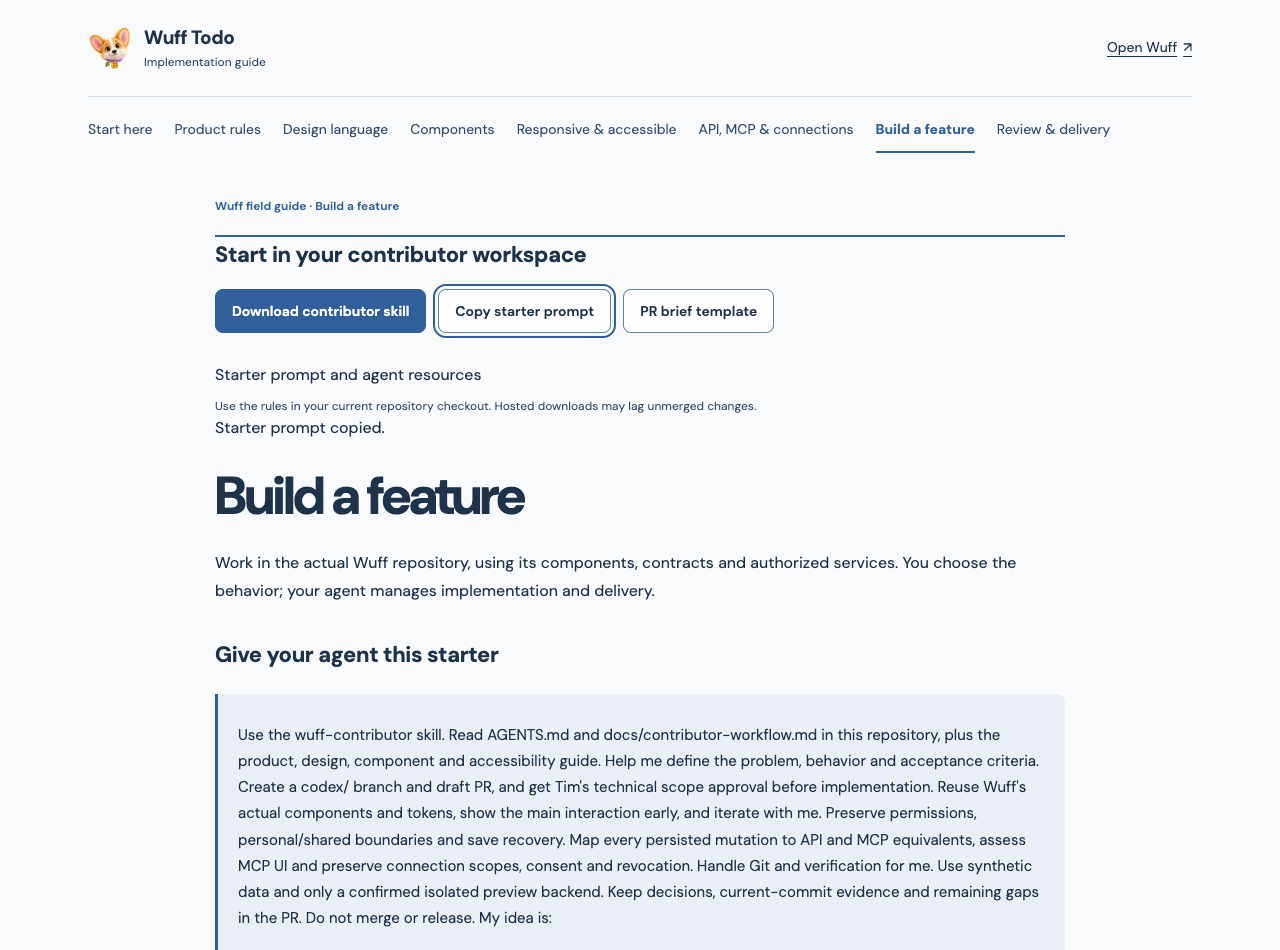
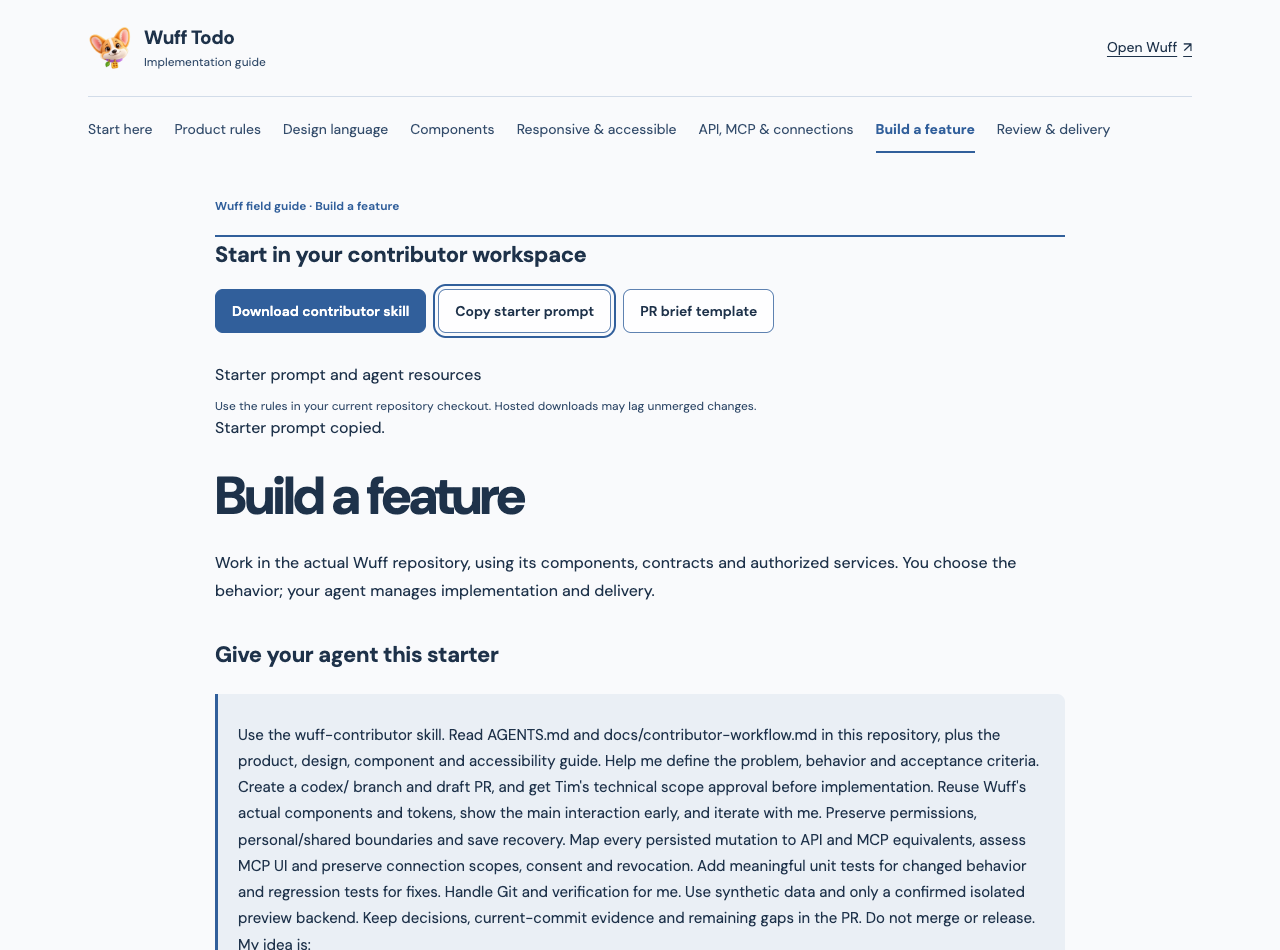
Require behavior unit coverage and discover tests automatically

Changed region(s): [[0.1875, 0.8853, 0.8125, 1.0]]

diff --git a/apps/web/src/app/docs/resources.tsx b/apps/web/src/app/docs/resources.tsx
@@ -1,7 +1,7 @@
 "use client";
 import { useState } from "react";
 const starter =
-  "Use the wuff-contributor skill. Read AGENTS.md and docs/contributor-workflow.md in this repository, plus the product, design, component and accessibility guide. Help me define a feature brief and acceptance criteria, create a codex/ branch and draft PR, and request Tim's scope approval before implementation. Reuse Wuff's actual components and tokens, show the main interaction early and iterate with me. Handle Git and verification for me. Preserve permissions, personal/shared boundaries and save recovery. Map every persisted mutation to API and MCP equivalents, assess MCP UI, and preserve connection scopes, consent and revocation. Use synthetic data and only a confirmed isolated preview backend. Keep decisions, current-commit evidence and remaining gaps in the PR. Do not merge or release. My idea is:";
+  "Use the wuff-contributor skill. Read AGENTS.md and docs/contributor-workflow.md in this repository, plus the product, design, component and accessibility guide. Help me define a feature brief and acceptance criteria, create a codex/ branch and draft PR, and request Tim's scope approval before implementation. Reuse Wuff's actual components and tokens, show the main interaction early and iterate with me. Handle Git and verification for me. Add meaningful unit tests for changed behavior and regression tests for fixes. Preserve permissions, personal/shared boundaries and save recovery. Map every persisted mutation to API and MCP equivalents, assess MCP UI, and preserve connection scopes, consent and revocation. Use synthetic data and only a confirmed isolated preview backend. Keep decisions, current-commit evidence and remaining gaps in the PR. Do not merge or release. My idea is:";
 export function GuideResources() {
   const [status, setStatus] = useState("");
   return (

diff --git a/AGENTS.md b/AGENTS.md
@@ -2,7 +2,7 @@
 
 Start with `docs/implementation-plan.md` for current status and the next planned milestone, then read `docs/product-spec.md` and `docs/architecture.md` before changing behavior. Read `docs/development.md` before running environment, database, or deployment commands, and `docs/verification.md` before making verification claims. Preserve confirmed decisions; record technical decisions and verification evidence in `docs/`.
 
-- First release: invite-only, private/shared basic lists, tasks, ordering, web and MCP/MCP Apps. Mobile and list themes follow later.
+- Follow the current milestone in `docs/implementation-plan.md`; preserve invite-only access and private/shared list boundaries across web, API, MCP and native clients.
 - Only owners rename/delete lists. Every API and MCP operation enforces access in shared server-side domain services.
 - Every persisted-data feature must ship equivalent authorized HTTP API and MCP
   capabilities through shared domain services. Assess MCP App UI and connection/
@@ -15,6 +15,25 @@ Start with `docs/implementation-plan.md` for current status and the next planned
 - Test permissions, idempotency, concurrent updates, and OAuth flows with synthetic data. Distinguish builds from live integration proof.
 - Keep the UI concise, accessible, and consistent. Do not add scheduling or other deferred features without a request.
 
+## Testing and completion requirements
+
+- Every new or changed behavior needs meaningful unit coverage, including relevant
+  success, boundary and failure cases. Bug fixes need a regression test that fails
+  without the fix. Test public outcomes; do not mirror implementation or add tests
+  merely to assert static copy, CSS classes or code text.
+- Put JS/TS unit tests under `tests/` as `*.test.ts`, `*.test.mjs` or the supported
+  equivalent. `pnpm test` discovers them automatically and excludes integration
+  suites. Run platform-language tests locally when changing native/Python behavior.
+- Before completion run `pnpm typecheck`, `pnpm test` and relevant integration/UI
+  checks. Unit tests do not replace actual API/MCP parity, connection recovery or
+  browser evidence. Use synthetic data; never run integration writes on production.
+- List test files, cases and actual command/results in the PR's `Unit tests`
+  declaration. Do not weaken/remove tests, skip cases or change test/CI settings to
+  get green checks. Docs/style-only work may explain why no behavior test applies;
+  data-changing features cannot waive unit coverage.
+- A blocked/unrun check is incomplete verification. Keep the PR a draft, record
+  the blocker and never claim completion merely because code compiles.
+
 ## Contributor delivery
 
 - `/docs` is the implementation guide, backed by `docs/guide/`. Keep its product,
@@ -24,6 +43,9 @@ Start with `docs/implementation-plan.md` for current status and the next planned
   `wuff-contributor` skill for real feature work. Before implementation, record a
   brief/acceptance criteria in a draft PR and obtain Tim's technical scope approval.
   Confirm environment readiness before preview or integration writes.
+- At the start of a feature, identify the active root/nearby instructions, approved
+  scope, unit-test plan and API/MCP/connection impacts in the brief. Do not assume
+  this host has loaded a skill or that an earlier session used current rules.
 - Implement features on a `codex/` branch and open a draft PR early. Commit and push
   to that branch; do not push directly to `main`. Keep the PR current with scope,
   preview, actual verification evidence and remaining technical work.

diff --git a/docs/verification.md b/docs/verification.md
@@ -2,6 +2,36 @@
 
 Updated: October 24, 2026. Older sections retain their milestone-specific evidence and test counts.
 
+## Contributor unit tests and instruction clarity — October 24, 2026
+
+Root AGENTS.md now explicitly requires meaningful unit coverage for every changed
+behavior, regression tests for fixes, boundary/failure cases and actual completion
+evidence. Docs/style-only exceptions must explain why no behavior changes;
+data-changing features cannot waive coverage. The skill, PR template and hosted
+workflow carry the same requirements. Obsolete first-release timing was replaced
+with a pointer to the current milestone. Root instructions remain under 5 KiB.
+
+`pnpm test` now discovers JS/TS unit files recursively instead of maintaining a
+manual file list. Integration suites, helpers, hidden directories and dependencies
+are excluded. Python/native tests remain local language-specific gates. The PR
+policy requires test declarations, actual added/updated unit files and results;
+deleted or integration-only files cannot substitute. Instruction override files
+are explicitly sensitive and need maintainer approval.
+
+`pnpm check` passed TypeScript, all 119 tests and optimized guide/MCP/web builds.
+New policy cases verify unit-file evidence, non-waivable data changes and invalid
+exceptions; discovery coverage verifies new nested files and exclusion of live
+integration suites. A temporary, unregistered failing unit case was discovered by
+the real runner and made `pnpm test` exit nonzero; the fixture was removed. The
+targeted eight-page guide browser check passed at 320/390/1280px without overflow,
+page errors or app API calls. Clipboard remains an in-memory test stub.
+
+Instruction discovery guidance was checked against official OpenAI documentation.
+Loading instructions is not proof of compliance: client/workspace overrides,
+permissions, required checks and human review remain distinct. No actual new-agent
+compliance run or live GitHub protection/rejection proof is claimed. Existing
+GitHub plan/runner and preview-isolation onboarding gates remain unresolved.
+
 ## Contributor API/MCP/connection completeness — October 24, 2026
 
 Tim confirmed equivalent API/MCP capabilities for every persisted-data feature,

diff --git a/docs/contributor-workflow.md b/docs/contributor-workflow.md
@@ -135,8 +135,36 @@ code path or judge architecture; Tim must inspect semantic changes too.
 
 ## 4. Verify and record current evidence
 
-Run `pnpm typecheck`, `pnpm test` and relevant regression checks. For new behavior,
-write a meaningful failing regression case before the fix when practical. Use the
+Every new or changed behavior requires meaningful unit coverage: successful
+outcomes, boundary/invalid inputs and applicable failure/recovery cases. Bug fixes
+need regression cases that fail without the fix. Test observable contracts, not
+private details, static copy, CSS classes, source text or stubbed success.
+
+`pnpm test` automatically discovers nested JS/TS unit files under `tests/` and
+excludes `*.integration.test.*`. Adding a unit test must not require editing a
+manual list. Python/native behavior also needs the appropriate local test command.
+Line coverage or a test count alone is not proof of meaningful behavior coverage.
+
+Fill `## Unit tests` with one JSON block:
+
+```json
+{
+  "required": true,
+  "files": ["tests/actual-feature.test.ts"],
+  "verification": "Actual cases, commands and results including boundary/failure behavior"
+}
+```
+
+Tests must be added/updated in this PR; deleted or integration-only files cannot
+satisfy the declaration. For Rust, list the changed source containing actual inline
+tests and record the local test command. Docs/style-only work may use `required:
+false` with a concrete `reason` explaining why no testable behavior changes. Data
+changes cannot waive unit tests. Policy checks file presence and declarations;
+reviewers still inspect the cases and outcomes.
+
+Run `pnpm typecheck`, `pnpm test` and relevant integration/UI checks. Keep the PR a
+draft when required checks are blocked/unrun and never claim completion from a
+build alone. Write a meaningful failing case first when practical. Use the
 configured isolated backend and synthetic accounts for integration tests. Never
 fall back to production when local services are unavailable.
 

diff --git a/docs/implementation-guide.md b/docs/implementation-guide.md
@@ -46,6 +46,20 @@ Git history and [historical verification](prototype-guide.md) preserve prior wor
 
 ## Verification boundary
 
+Codex discovers AGENTS.md through its workspace instruction chain; global or
+nearer overrides and client configuration can affect which files load. Keep root
+rules concise, launch from the intended repository and ask the agent to identify
+its active instructions, approved scope, test plan and surface impacts. Start a
+fresh session after changing loaded instructions. A summary is a useful setup
+check, never proof that the agent will comply. Other coding agents may load files
+differently. See [official instruction discovery](https://learn.chatgpt.com/docs/agent-configuration/agents-md).
+
+Root instructions require unit coverage for every behavior change, regression
+cases for fixes and actual completion evidence. `pnpm test` automatically discovers
+JS/TS unit files while excluding live integration suites. Required GitHub checks,
+scope/permission restrictions and Tim's review back up these instructions. No
+prompt, skill or instruction file guarantees correctness or compliance.
+
 See [current evidence](verification.md#implementation-guide-consolidation--october-24-2026).
 No domain/API/schema behavior, admission model, migration or production setting
 changes. This guide does not provision a safe workspace or isolate a preview.

diff --git a/docs/contributor-github.md b/docs/contributor-github.md
@@ -73,6 +73,14 @@ the policy. Scope approvals bind the intended mappings and decisions; status and
 test results may evolve without changing approved capability scope. This remains
 declaration validation; actual adapter/connection tests and owner review prove behavior.
 
+Every PR includes a Unit tests JSON declaration with changed test files and actual
+cases/commands/results. The policy rejects missing files, deleted or integration-only
+tests, unexplained exceptions and waived unit coverage for data changes. JS/TS
+tests are discovered automatically by `pnpm test`; new files cannot be silently
+omitted from a manual list. Native/Python unit execution remains a documented local
+gate. File presence and self-reported results do not prove meaningful assertions;
+review still checks behavior coverage and test quality.
+
 Use upstream read access plus private forks where supported. A collaborator with
 upstream write access can create other branch workflows and similarly named
 Actions checks. Binding a check to the Actions app does not uniquely identify its

diff --git a/.agents/skills/wuff-contributor/SKILL.md b/.agents/skills/wuff-contributor/SKILL.md
@@ -39,6 +39,14 @@ Maintain the brief, acceptance criteria and current-commit evidence in the PR.
 Inspect the actual diff and behavior: green policy checks validate declarations,
 not truth or quality.
 
+Every changed behavior needs meaningful unit tests and bug fixes need regression
+coverage. Test outcomes and relevant boundary/failure cases, not code text or
+incidental markup. Put JS/TS tests under `tests/` for automatic `pnpm test`
+discovery. Fill the PR's Unit tests declaration with changed files and actual
+cases/commands/results. Integration checks do not replace unit coverage; data
+changes cannot waive it. Run local language-specific tests for native/Python
+changes. Keep the PR a draft when required checks are blocked or unrun.
+
 Confirm environment readiness before writes. If credentials, preview isolation or
 scope are missing, prepare a brief/mock and concrete technical handoff to Tim.
 Do not bypass checks, borrow his credentials, alter safeguards to pass, invent

diff --git a/docs/guide/build.md b/docs/guide/build.md
@@ -12,7 +12,7 @@ services. You choose the behavior; your agent manages implementation and deliver
 > Reuse Wuff's actual components and tokens, show the main interaction early, and
 > iterate with me. Preserve permissions, personal/shared boundaries and save recovery.
 > Map every persisted mutation to API and MCP equivalents, assess MCP UI and
-> preserve connection scopes, consent and revocation. Handle Git and verification for me. Use synthetic data and only a confirmed
+> preserve connection scopes, consent and revocation. Add meaningful unit tests for changed behavior and regression tests for fixes. Handle Git and verification for me. Use synthetic data and only a confirmed
 > isolated preview backend. Keep decisions, current-commit evidence and remaining
 > gaps in the PR. Do not merge or release. My idea is:
 

diff --git a/docs/guide/review.md b/docs/guide/review.md
@@ -15,6 +15,9 @@ PR. The conversation supports that record; Tim should not need to reconstruct it
   behavior, including cancellation, retained drafts and uncertain-save recovery.
 - List commands actually run, results, mocked behavior, unverified checks and
   rollout/native/device gates. A green check is not proof that evidence is true.
+- Include meaningful unit cases for all changed behavior, regression tests for
+  fixes and the PR's Unit tests declaration. Verify new tests are discovered by
+  `pnpm test`; integration-only coverage or empty assertions do not substitute.
 - For every data-changing operation, include shared domain/API/MCP mappings and
   actual cross-surface adapter evidence. Record the MCP App UI decision and
   affected connection scopes, consent, recovery, revocation and privacy checks.

diff --git a/.github/pull_request_template.md b/.github/pull_request_template.md
@@ -21,6 +21,14 @@ MCP UI: implemented with verification, or not-needed with reason.
 Connections: affected boolean and review; affected connections need verification.
 Map existing or new routes/tools; no web-only writes or silent deferral. -->
 
+## Unit tests
+
+<!-- Include one JSON block. Behavior changes require:
+{"required":true,"files":["tests/actual-feature.test.ts"],"verification":"Actual cases, command and results including boundary/failure behavior"}
+Files must be added/updated in this PR. Integration-only files do not substitute.
+Docs/style-only changes can use required:false with a concrete reason. Data
+changes cannot waive coverage. Do not add empty tests just to pass this check. -->
+
 ## Preview
 
 <!-- Link the Vercel deployment for the evidence commit and give test steps.
